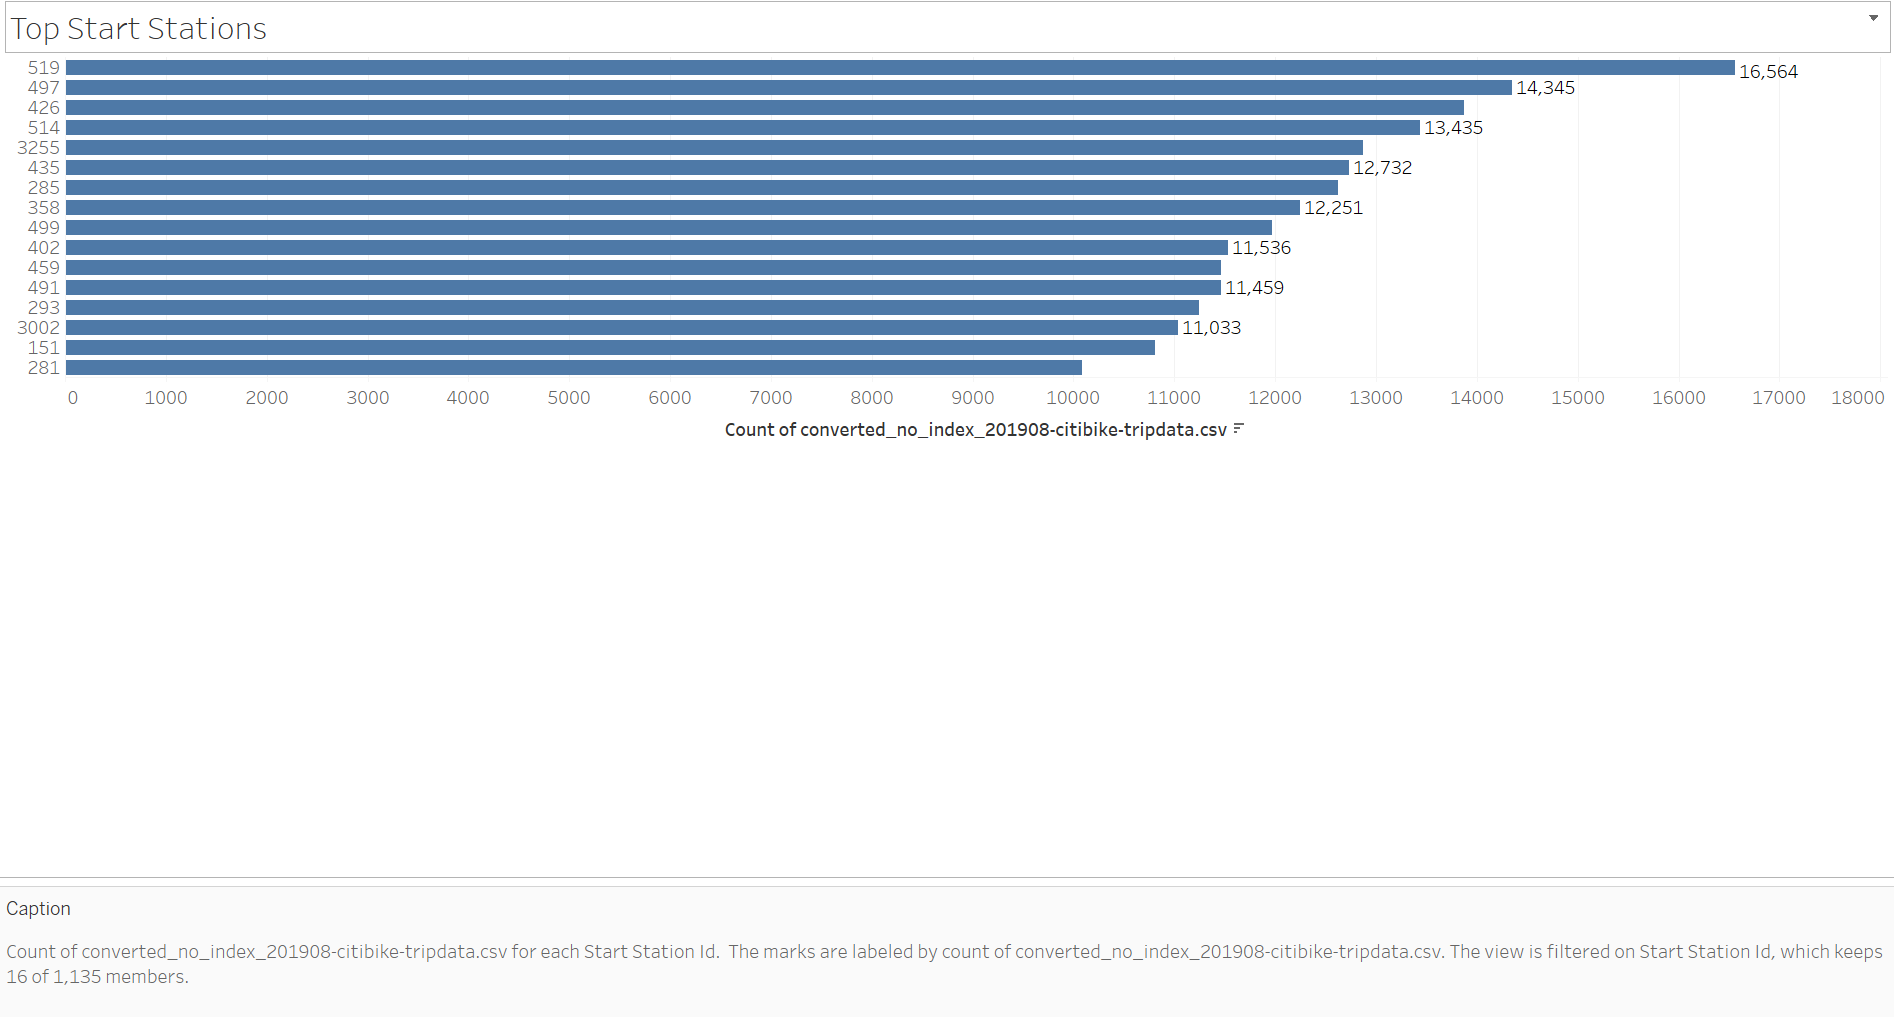
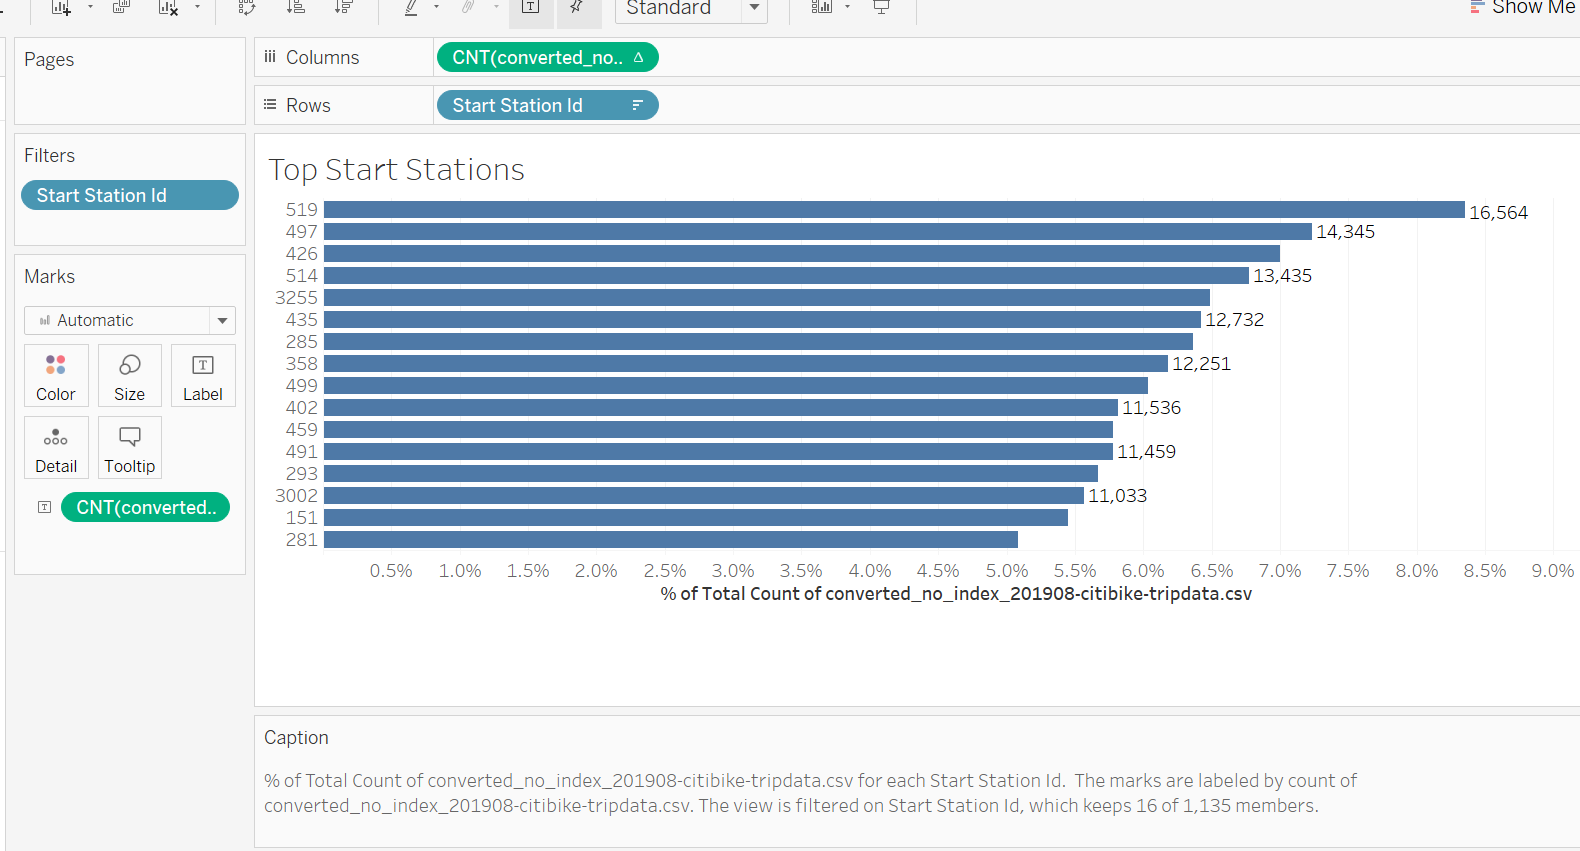
Deliverable #3 for OSU Challenge 14.

diff --git a/README.md b/README.md
@@ -5,22 +5,40 @@ OSU Module 14 - Tableau
 ### Please visit my Public Tableau Page to see the VIZ's.
 [link to dashboard](https://public.tableau.com/views/BikeShareChallenge_16457264396390/Dashboard1?:language=en-US&:display_count=n&:origin=viz_share_link)
 
-- Overview of the analysis: Explain the purpose of this analysis.
+- Overview of the analysis: You are charged with gathering data from a bikeshare company in New York City in order to assist your salesperson friend, Kate make a pitch to investors in her hometown of Des Moines, Iowa.  Kate would like to start a bikeshare company in Des Moines and has asked you to provide her with visualizations which she can present to her potential investors.
 
-- Results: Using the visualizations you have in your Tableau Story, describe the results of each visualization underneath the image.
+- Results: We looked at NYC CitiBike data for the month of August 2019.  There were a total of 2,344,224 rides that month.  We wanted to see several things:
+  - How many customers were repeat (Subscribers) customers
+  - How long were most trips
+  - What was the gender breakdown for riders
+  - What hours of the day were busiest
+  - What stations were busiest and were they strategically located
 
-- Summary: Provide a high-level summary of the results and two additional visualizations that you would perform with the given dataset.
+## Over 80% of customers were Subscribers.
+![](img/user_type.PNG)
 
-Add at least two extra visualizations for a total of seven.
-
+## Most rides were under 40 minutes.
 ![](img/checkout_time_by_gender.PNG)
 
+## The heatmap below shows most riders identified as 'MALE'.
 ![](img/trips_by_gender.PNG)
 
+## The heatmap below shows most activity occurred during 'rush hour'.
 ![](img/trips_by_weekday.PNG)
 
+## The heatmap below suggests most riders are subscription commuters.
 ![](img/user_trips_by_gender_by_weekday.PNG)
 
+## Further investigation could be made into what % of total rides the top stations have.
 ![](img/top_start_stations.PNG)
 
+## All the top stations are in Manhattan south of Central Park.
 ![](img/startstation_over_ten_grand.PNG)
+
+
+- Summary: Most of the NYC CitiBike business seems to come from male commuters in the southern half of Manhattan making short trips during the workweek.
+
+- Considerations for further research:
+  - Will Des Moines, IA, a city with one-tenth the population of NYC but a geographic area four-times that of Manhattan be able to support a similar business to CitiBike?
+  - Can we delve deeper into the identities of the Subscribers to see how loyal they are?  Distinct customer IDs are not provided in the dataset.
+  - Can we look at how the winter months compare to the volume in the August dataset?
